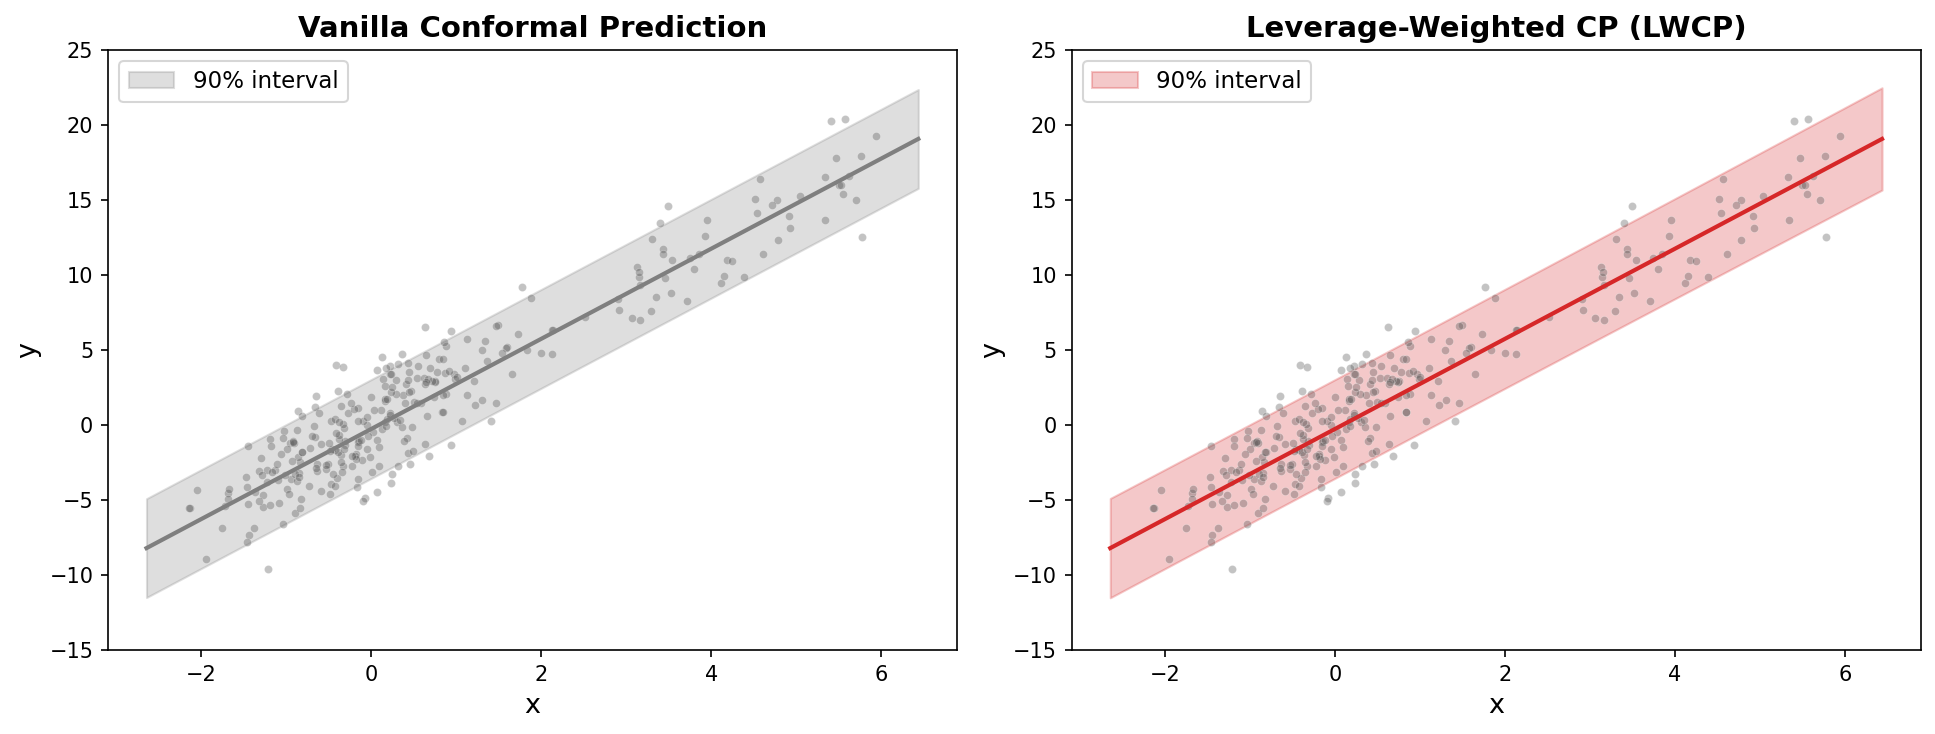
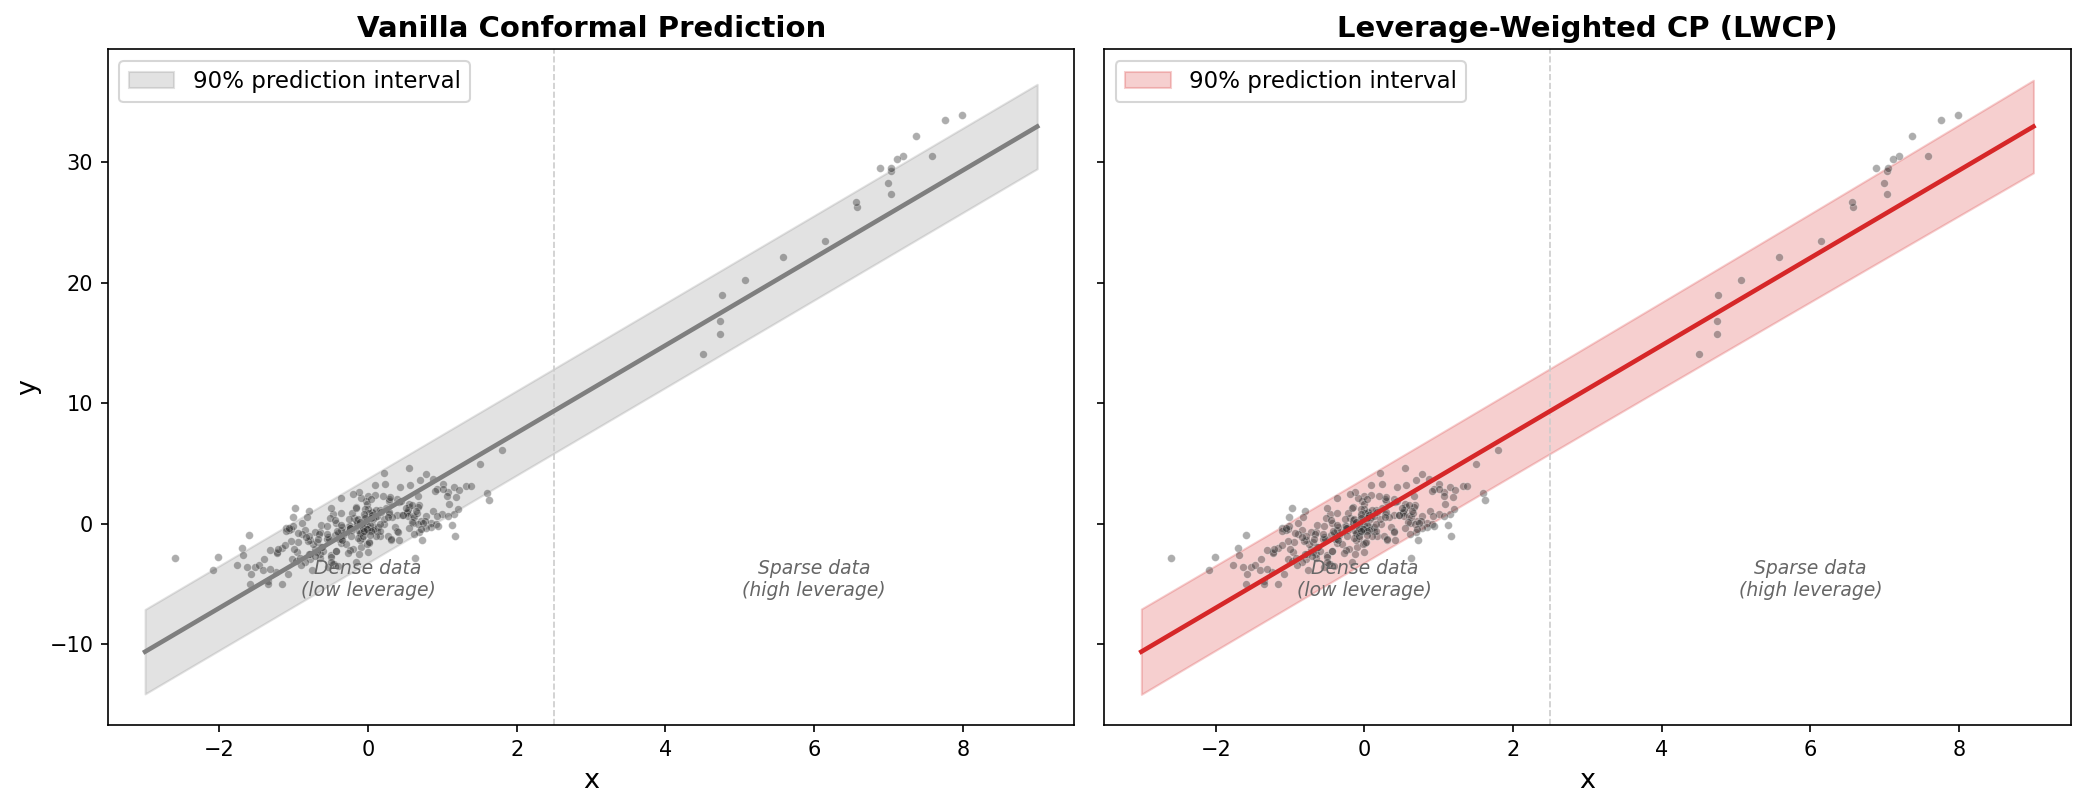
Improve example with clearer leverage contrast

diff --git a/README.md b/README.md
@@ -30,8 +30,9 @@ pip install -e ".[experiments]"
 
 ## Example
 
-Vanilla conformal prediction uses constant-width bands. LWCP adapts: wider where
-data is sparse (high leverage), narrower where data is dense.
+Vanilla conformal prediction uses constant-width bands everywhere. LWCP adapts:
+narrow intervals where data is dense (low leverage), wider where data is sparse
+(high leverage) — honestly reflecting prediction uncertainty.
 
 ![LWCP Example](examples/lwcp_example.png)
 
@@ -41,10 +42,10 @@ import matplotlib.pyplot as plt
 from sklearn.linear_model import LinearRegression
 from lwcp import LWCP, ConstantWeight
 
-# 1D regression: cluster of points near origin, a few high-leverage points far out
-rng = np.random.default_rng(42)
-X = np.vstack([rng.normal(0, 1, (250, 1)), rng.uniform(3, 6, (50, 1))])
-y = 3.0 * X.ravel() + rng.normal(0, 2, size=300)
+# Dense cluster near origin + sparse tail — dramatic leverage contrast
+rng = np.random.default_rng(7)
+X = np.vstack([rng.normal(0, 0.8, (280, 1)), rng.uniform(4, 8, (20, 1))])
+y = 2.0 * X.ravel() + 0.3 * X.ravel()**2 + rng.normal(0, 1.5, size=300)
 
 # Fit LWCP and Vanilla CP
 model = LWCP(predictor=LinearRegression(), alpha=0.1, random_state=0)
@@ -55,23 +56,24 @@ vanilla = LWCP(predictor=LinearRegression(), alpha=0.1, random_state=0,
 vanilla.fit(X, y)
 
 # Predict on a dense grid
-X_grid = np.linspace(X.min() - 0.5, X.max() + 0.5, 500).reshape(-1, 1)
+X_grid = np.linspace(-3, 9, 600).reshape(-1, 1)
 y_pred, lower, upper = model.predict(X_grid)
 y_pred_v, lower_v, upper_v = vanilla.predict(X_grid)
 
 # Plot side by side
-fig, axes = plt.subplots(1, 2, figsize=(13, 5))
+fig, axes = plt.subplots(1, 2, figsize=(14, 5.5), sharey=True)
 for ax, lo, hi, yp, color, title in [
     (axes[0], lower_v, upper_v, y_pred_v, "#7f7f7f", "Vanilla Conformal Prediction"),
     (axes[1], lower, upper, y_pred, "#d62728", "Leverage-Weighted CP (LWCP)"),
 ]:
-    ax.scatter(X.ravel(), y, alpha=0.35, s=15, color="#555555",
-               edgecolors="white", linewidths=0.3)
-    ax.plot(X_grid.ravel(), yp, color=color, linewidth=2)
-    ax.fill_between(X_grid.ravel(), lo, hi, alpha=0.25, color=color,
-                    label="90% interval")
-    ax.set_xlabel("x"); ax.set_ylabel("y"); ax.set_title(title)
+    ax.fill_between(X_grid.ravel(), lo, hi, alpha=0.22, color=color,
+                    label="90% prediction interval")
+    ax.scatter(X.ravel(), y, alpha=0.4, s=14, color="#333333",
+               edgecolors="white", linewidths=0.3, zorder=3)
+    ax.plot(X_grid.ravel(), yp, color=color, linewidth=2.2, zorder=4)
+    ax.set_xlabel("x"); ax.set_title(title, fontweight="bold")
     ax.legend(loc="upper left")
+axes[0].set_ylabel("y")
 
 plt.tight_layout()
 plt.savefig("lwcp_example.png", dpi=150)
